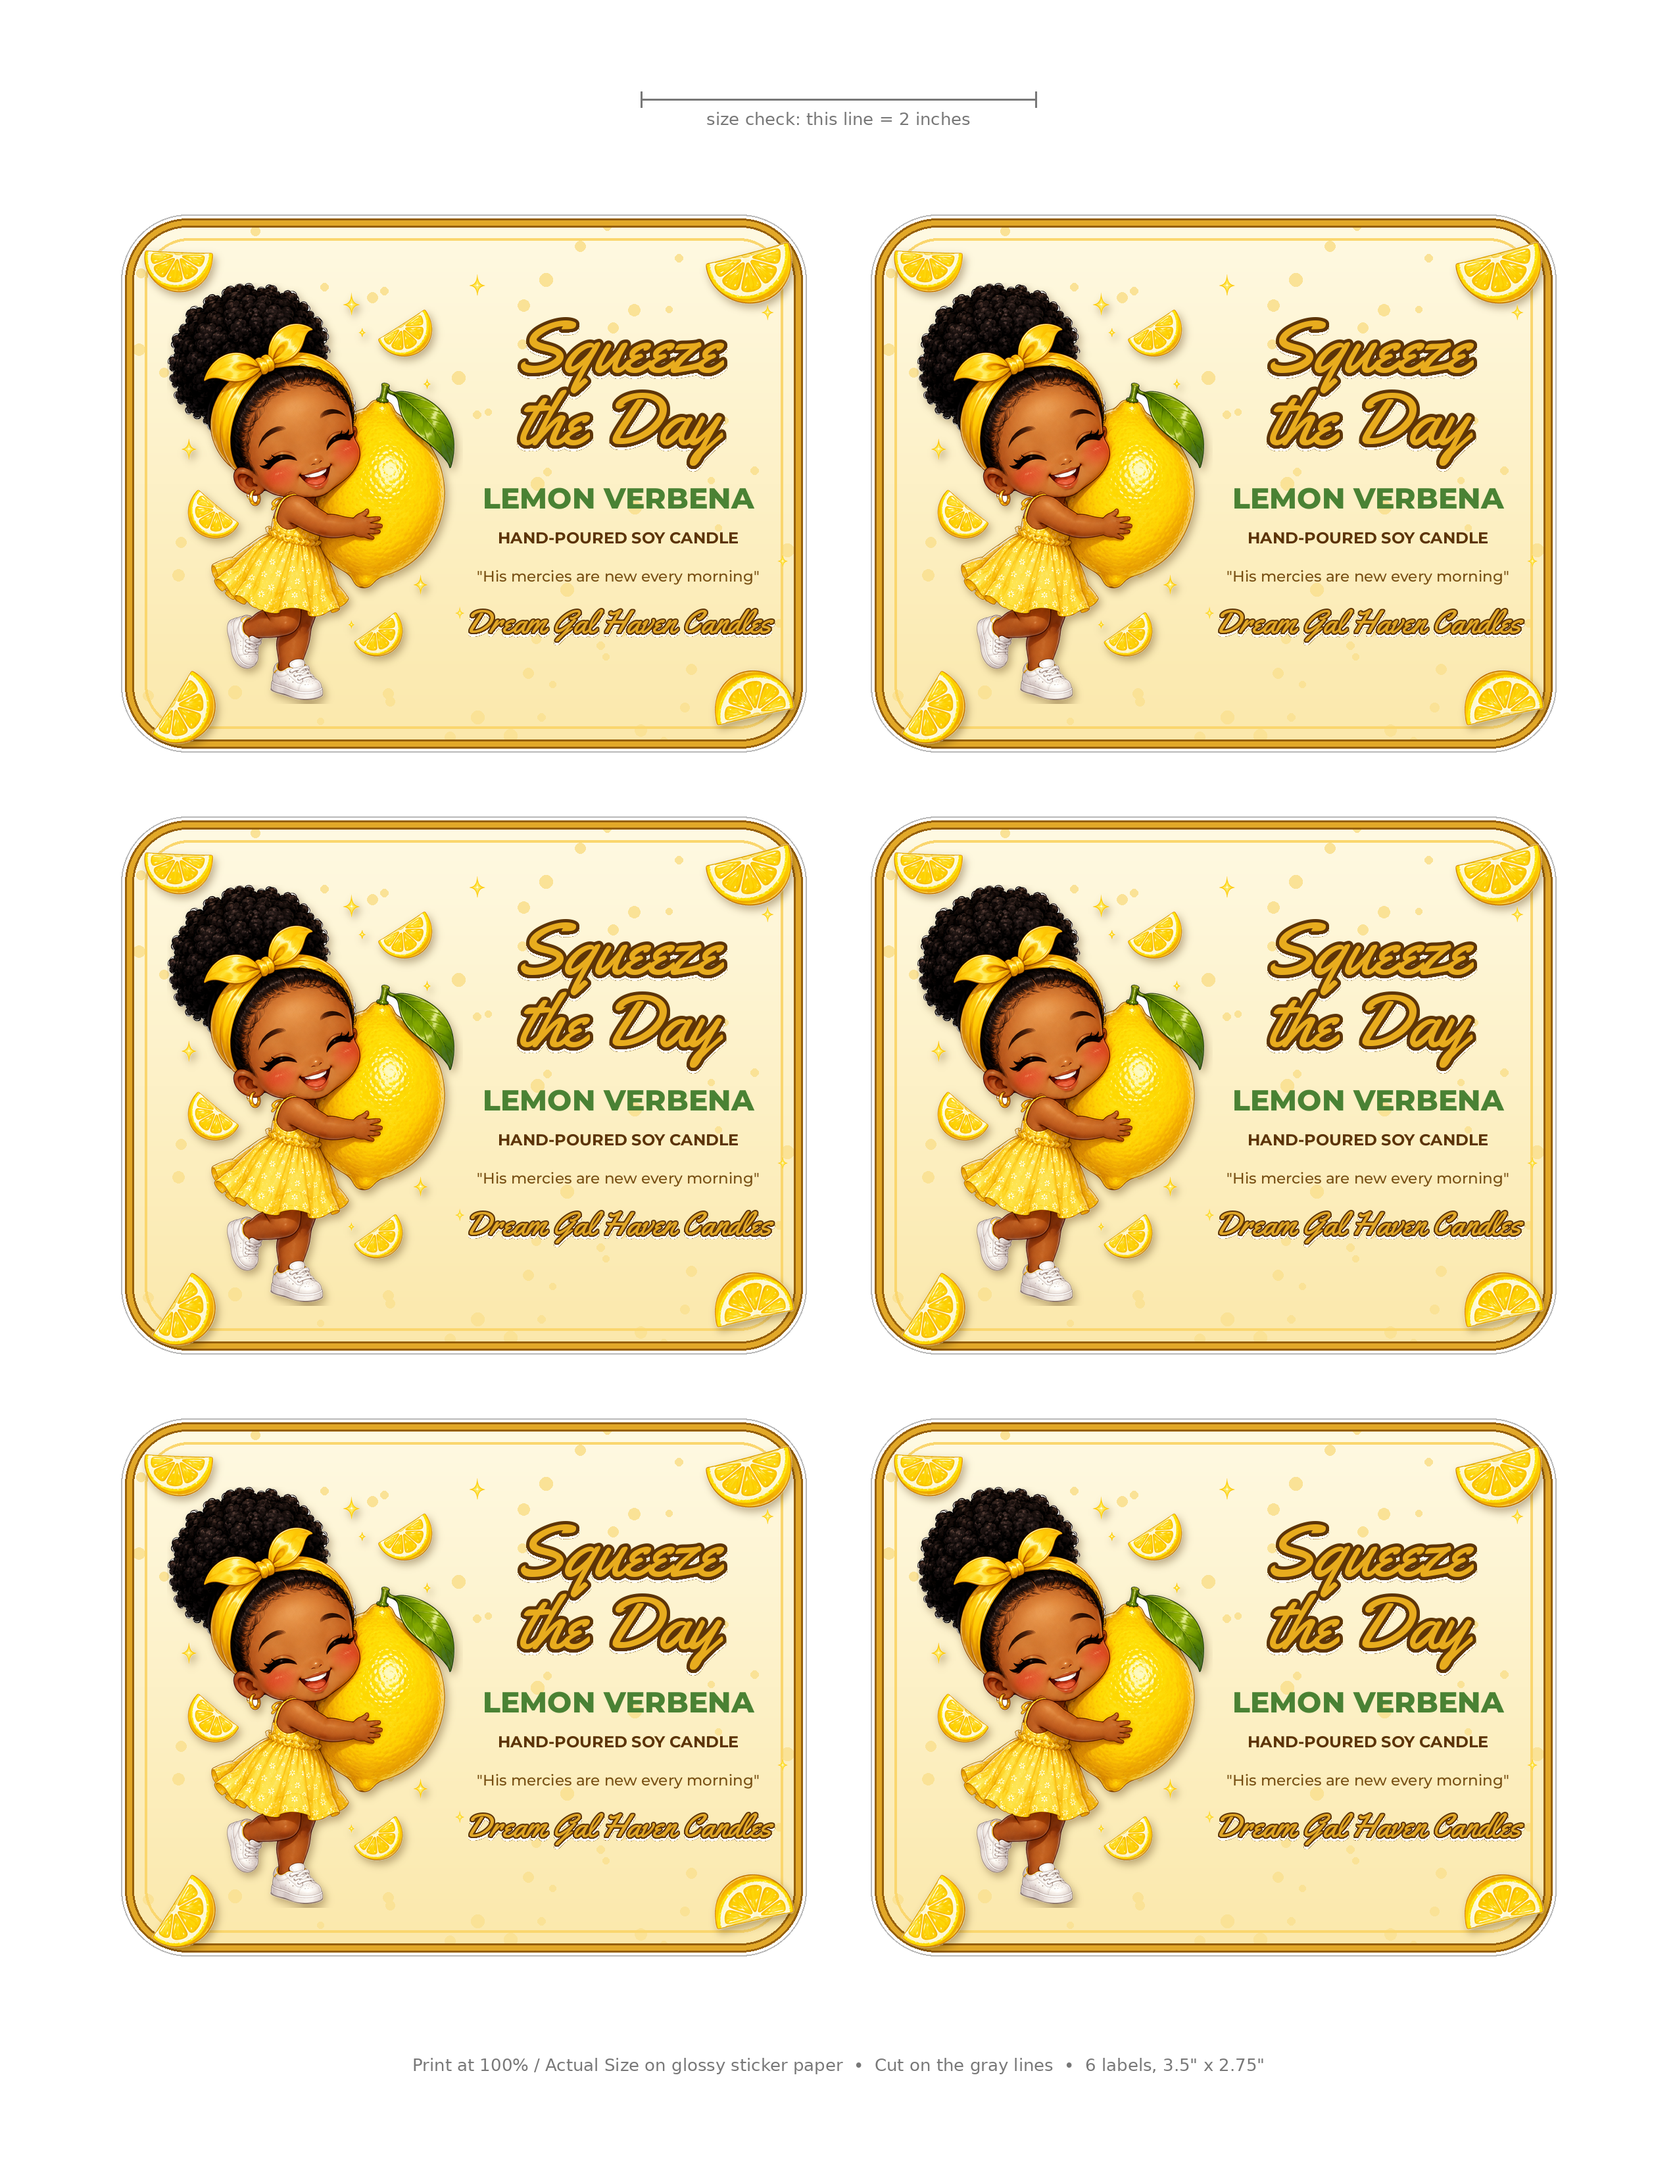
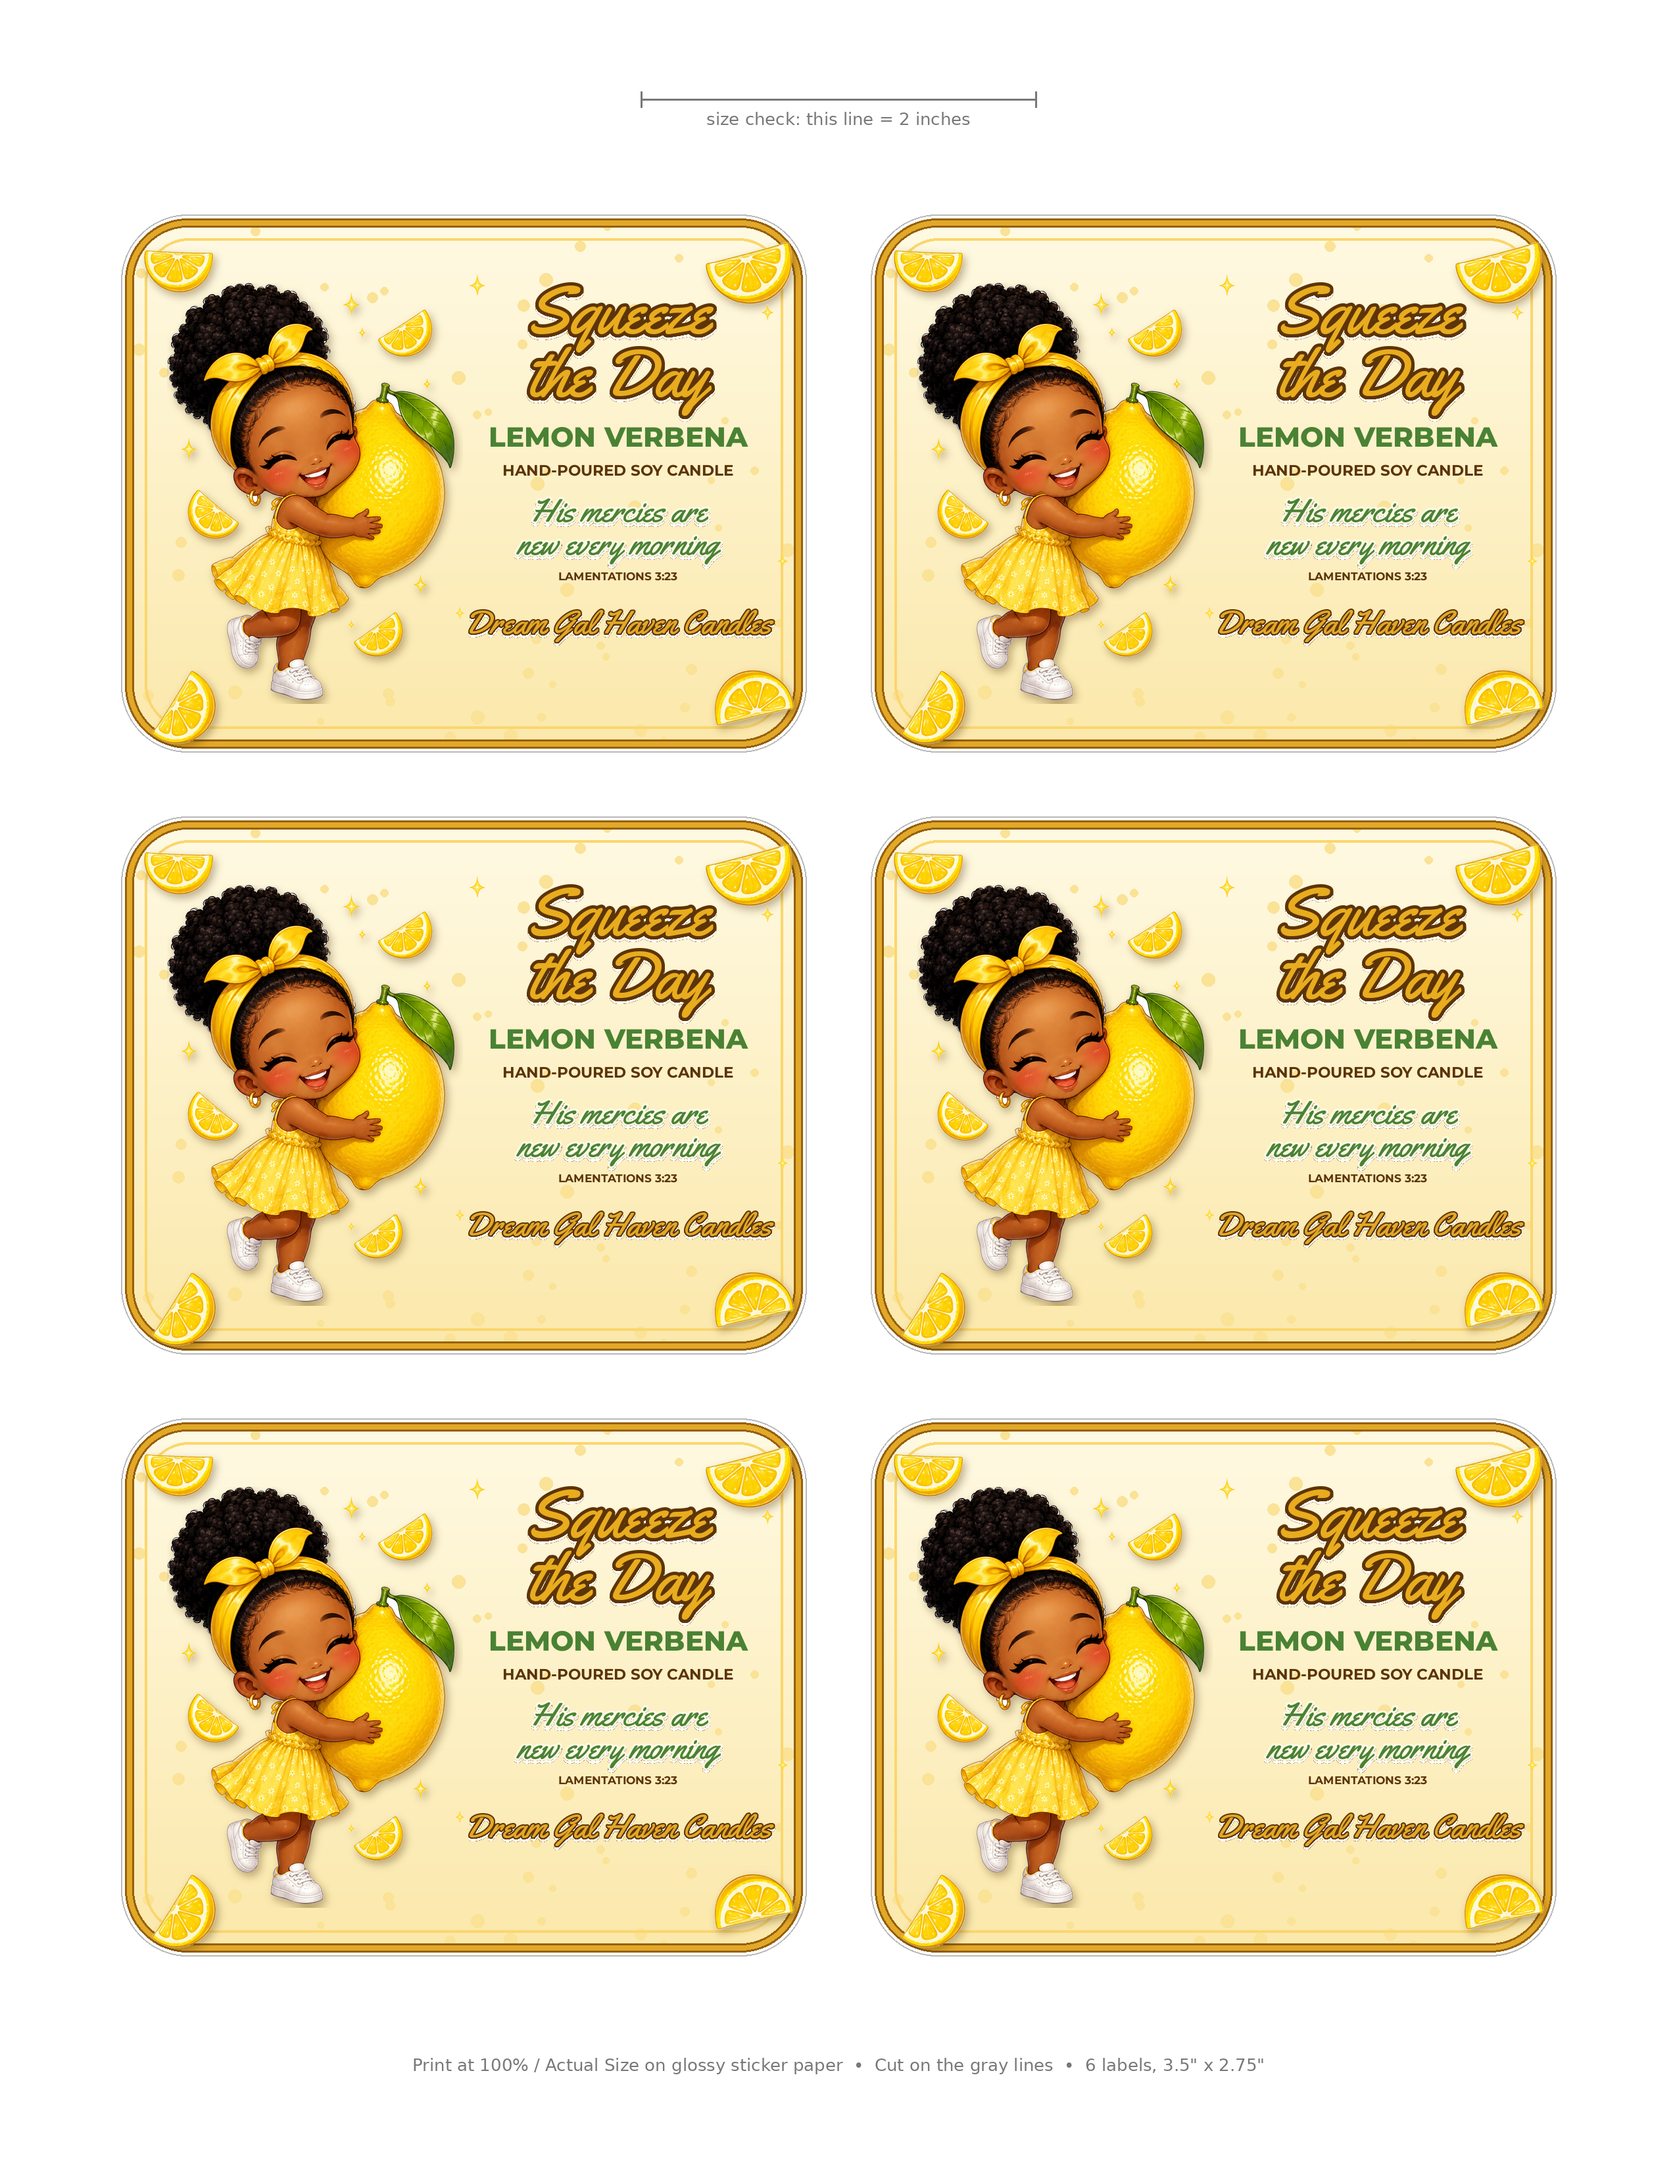
Squeeze the Day label: bolder two-line verse in green script with Lamentations 3:23
Claude-Session: https://claude.ai/code/session_013Lmse4UUbVMfZjWLLcf5XL

diff --git a/designs/candle-label-lemon/build.py b/designs/candle-label-lemon/build.py
@@ -75,15 +75,19 @@ def outlined(xy, s, font, fill, stroke, sw, anchor='mm'):
 words = NAME.split(' ', 1) if len(NAME) > 12 else [NAME]
 if len(words) == 2 and NAME.lower() == 'squeeze the day':
     words = ['Squeeze', 'the Day']
-y = 205 if len(words) == 2 else 260
+y = 150 if len(words) == 2 else 210
 for wd in words:
-    outlined((tx, y), wd, f(SCRIPT, 112), (232, 172, 30), BROWN, 5); y += 110
-y += 10
-d.text((tx, y), 'LEMON VERBENA', font=f(BOLD, 44), anchor='mm', fill=GREEN)
-y += 60
-d.text((tx, y), 'HAND-POURED SOY CANDLE', font=f(SEMI, 24), anchor='mm', fill=BROWN)
-y += 58
-d.text((tx, y), '"His mercies are new every morning"', font=f(MED, 23), anchor='mm', fill=(120, 80, 20))
+    outlined((tx, y), wd, f(SCRIPT, 100), (232, 172, 30), BROWN, 5); y += 96
+y += 0
+d.text((tx, y), 'LEMON VERBENA', font=f(BOLD, 42), anchor='mm', fill=GREEN)
+y += 50
+d.text((tx, y), 'HAND-POURED SOY CANDLE', font=f(SEMI, 23), anchor='mm', fill=BROWN)
+y += 62
+outlined((tx, y), 'His mercies are', f(SCRIPT, 50), GREEN, (255, 250, 230), 3)
+y += 50
+outlined((tx, y), 'new every morning', f(SCRIPT, 50), GREEN, (255, 250, 230), 3)
+y += 50
+d.text((tx, y), 'LAMENTATIONS 3:23', font=f(SEMI, 17), anchor='mm', fill=BROWN)
 y += 70
 outlined((tx, y), 'Dream Gal Haven Candles', f(SCRIPT, 50), GOLD, BROWN, 2)
 # a few sparkles
